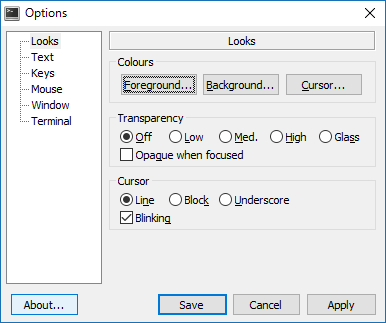
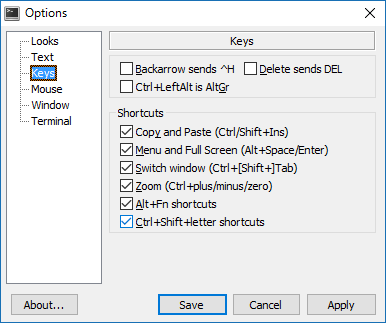
cygwin option

diff --git a/jekyll-keriweb/_site/posts/2015-12-04-cygwin/index.html b/jekyll-keriweb/_site/posts/2015-12-04-cygwin/index.html
@@ -170,7 +170,7 @@ $ apt-cyg install tmux
 
 <p>などなど</p>
 
-<h2 id="section-1">おまけ</h2>
+<h2 id="section-1">おまけ（各種設定）</h2>
 
 <h3 id="windows">Windowsのコピペを使う</h3>
 
@@ -179,7 +179,9 @@ $ apt-cyg install tmux
 <ol>
   <li>Cygwinのウィンドウの左上のCygwinアイコンを右クリックする。</li>
   <li>optionを開く</li>
-  <li>Keysの中の一番下の<code class="highlighter-rouge">Ctrl+Shift+letter shortcuts</code>にチェックを入れる。</li>
+  <li><code class="highlighter-rouge">Keys</code>の中の一番下の<code class="highlighter-rouge">Ctrl+Shift+letter shortcuts</code>にチェックを入れる。</li>
+  <li>ついでに<code class="highlighter-rouge">Looks</code>のなかの<code class="highlighter-rouge">Cursor</code>を<code class="highlighter-rouge">Block</code>にするとよい。</li>
+  <li>さらに<code class="highlighter-rouge">Looks</code>のなかの<code class="highlighter-rouge">Transparency</code>を<code class="highlighter-rouge">Medium</code>か<code class="highlighter-rouge">High</code>にするとブラウザなどを下に置いたときに透かして見れるので便利。</li>
   <li>saveで終了。</li>
 </ol>
 

diff --git a/jekyll-keriweb/_posts/2015-12-04-cygwin.md b/jekyll-keriweb/_posts/2015-12-04-cygwin.md
@@ -66,7 +66,7 @@ Cygwinを起動したら、以下のコマンドを実行する。
 
 などなど
 
-## おまけ
+## おまけ（各種設定）
 
 ### Windowsのコピペを使う  
 
@@ -74,7 +74,9 @@ Cygwinのデフォルトの設定ではWindowsのCtrl+C,Ctrl+Vが使えない。
 
   1. Cygwinのウィンドウの左上のCygwinアイコンを右クリックする。
   1. optionを開く
-  1. Keysの中の一番下の`Ctrl+Shift+letter shortcuts`にチェックを入れる。
+  1. `Keys`の中の一番下の`Ctrl+Shift+letter shortcuts`にチェックを入れる。
+  1. ついでに`Looks`のなかの`Cursor`を`Block`にするとよい。
+  1. さらに`Looks`のなかの`Transparency`を`Medium`か`High`にするとブラウザなどを下に置いたときに透かして見れるので便利。
   1. saveで終了。
 
 Shiftキー＋いつものコピペキーでコピペができる。
